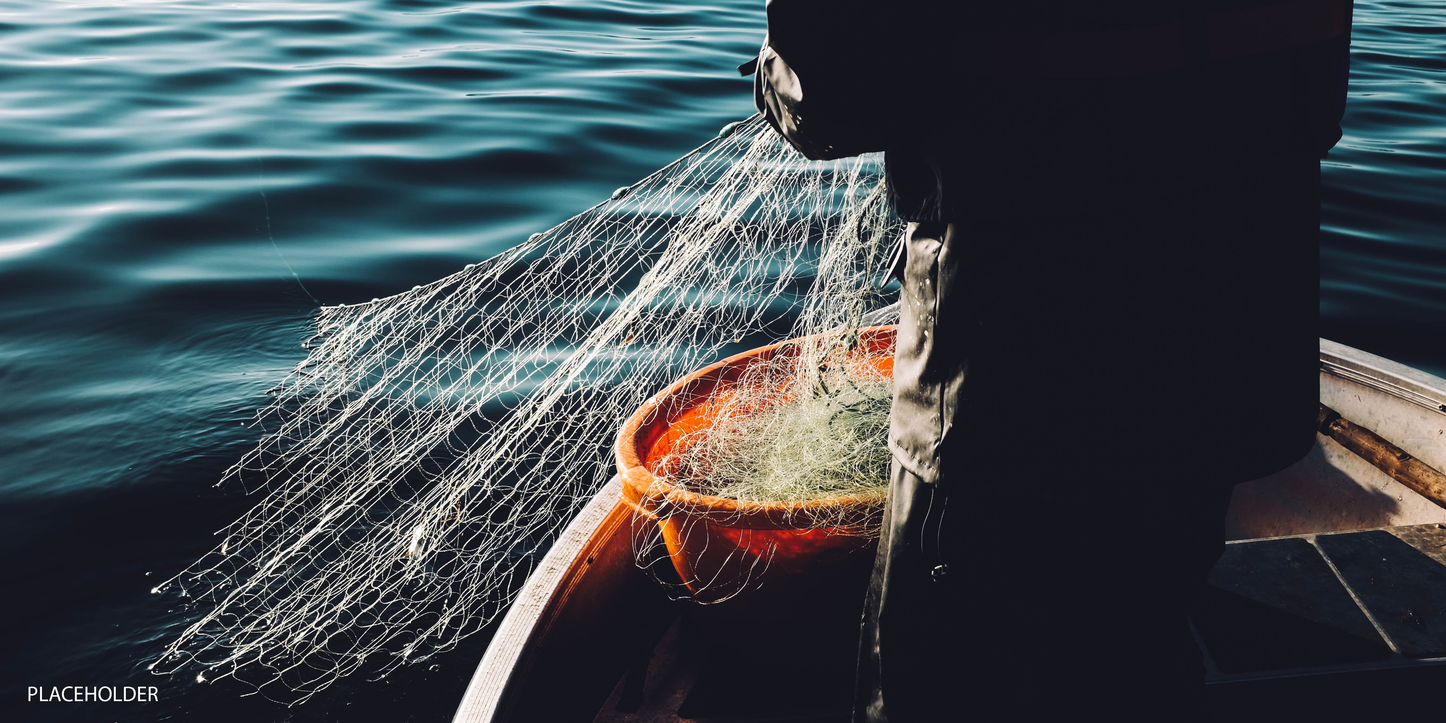
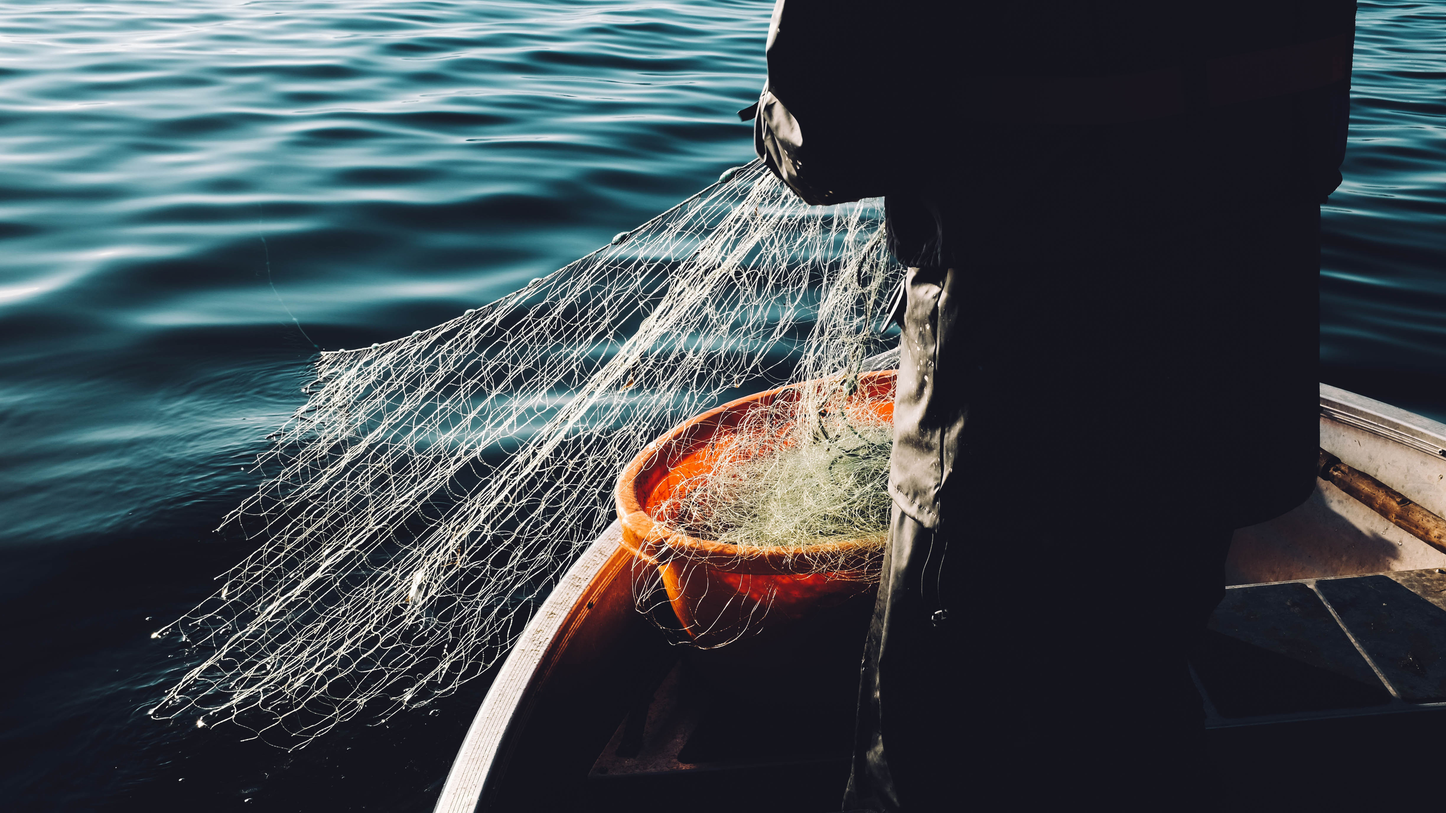
updated images

diff --git a/index.html b/index.html
@@ -32,7 +32,7 @@
             </div>
             <!-- Planet Body Image -->
             <div class="col-md-6">
-              <img class="responsive-img" src="600x300.png">
+              <img class="responsive-img" src="img/kelp2.jpg">
             </div>
           </div>
         </div>
@@ -219,7 +219,7 @@
                       <h4>Kelp & Avocado Toast</h4>
                       <h3><i>Ingredients:</i></h3>
                       <ul class="recipe-list lead">
-                        <li>Fresh or thawed frozen kelp</li>
+                        <li>Sea Greens Farms fresh-frozen kelp</li>
                         <li>Avocado</li>
                         <li>Sliced jalapeño pepper</li>
                         <li>Chopped scallions</li>
@@ -268,13 +268,24 @@
                   <!-- START COPY HERE -->
                   <div class="item">
                     <div class="col-md-6">
-                      <h4>Title here</h4>
+                      <h4>Kelp Pizza</h4>
                       <h3><i>Ingredients:</i></h3>
                       <ul class="recipe-list lead">
-                        <li>many item waow</li>
+                        <li>1/2 cup Mozzarella</li>
+                        <li>1 kelp leaf</li>
+                        <li>Pesto sauce(using kelp oil)</li>
+                        <li>Basil</li>
+                        <li>Parsley</li>
+                        <li>Pine nuts</li>
+                        <li>Parmesan cheese</li>
+                        <li>Peppers</li>
+                        <li>Onions</li>
+                        <li>Mushrooms</li>
+                        <li>Broccoli</li>
+                        <li>Cauliflower pizza crust</li>
                       </ul>
                       <h3><i>Instructions:</i></h3>
-                      <p class="recipe-list lead">Lorem ipsum dolor sit a-whatever</p>
+                      <p class="recipe-list lead">Spread kelp pesto onto pizza crust. </p>
                     </div>
                     <div class="col-md-6">
                       <!-- Video embed code below. -->
